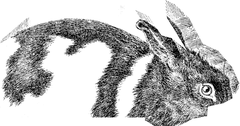
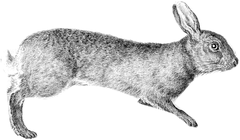
Le lapin leaps whole: his figure is cut from Buffon's wild rabbit, not the piebald one eating a cabbage
The figure came from Buffon's Lapin domestique (Histoire naturelle VI, pl. LI),
a black-and-white rabbit whose white patches are barely engraved. In an ink
mask they went transparent, and the cabbage it was eating hid its face, so
the rabbit showed with holes through it and no front. It is now cut from the
plate before it, Le Lapin sauvage (pl. L): a wild rabbit in profile mid-leap,
hatched all over like the hare, mirrored to face right and as heavily inked
as the hare is.

The scan is the same volume from the Bibliothèque interuniversitaire de santé
under the Etalab Open Licence, so only PROVENANCE.md's plate and title change,
with the figure's aspect. Le lapin still stands on a shoot of his own.

diff --git a/src/calendar/figures.ts b/src/calendar/figures.ts
@@ -58,7 +58,7 @@ export const FIGURES: Readonly<Record<string, FigureRow>> = {
   hotte: { kind: "rest", aspect: 1.9149 },
   houlette: { kind: "rest", aspect: 13.3333 },
   hoyau: { kind: "rest", aspect: 1.6484 },
-  lapin: { kind: "visitor", stance: "shoot", aspect: 1.9111 },
+  lapin: { kind: "visitor", stance: "shoot", aspect: 1.7143 },
   lievre: { kind: "visitor", stance: "shoot", aspect: 1.6 },
   loutre: { kind: "visitor", stance: "ground", aspect: 2.9917 },
   moulin: { kind: "rest", aspect: 0.69 },

diff --git a/figures/PROVENANCE.md b/figures/PROVENANCE.md
@@ -28,7 +28,7 @@ Faithful reproductions of public-domain flat artworks attract no new copyright i
 | `pelle.png` | 30 frimaire, la pelle | Diderot and d’Alembert, Recueil de planches I, 1762 | Charbon de bois III, fig. 3 | [Smithsonian / Internet Archive](https://iiif.archive.org/image/iiif/3/Recueildeplancht1Dide%2FRecueildeplancht1Dide_jp2.zip%2FRecueildeplancht1Dide_jp2%2FRecueildeplancht1Dide_0147.jp2/full/max/0/default.jpg) | Original public domain; Smithsonian scan CC0 |
 | `chien.png` | 5 nivôse, le chien | Buffon, Histoire naturelle V, 1755; engravings after Jacques de Sève | V, pl. XXVIII, Le Chien de Berger | [Internet Archive](https://iiif.archive.org/iiif/A298162$366/full/max/0/default.jpg) | Original public domain; Sevilla scan marked Public Domain Mark 1.0 |
 | `fleau.png` | 10 nivôse, le fléau | Diderot and d’Alembert, Recueil de planches I, 1762 | Batteur en grange, fig. 8 | [Smithsonian / Internet Archive](https://iiif.archive.org/image/iiif/3/Recueildeplancht1Dide%2FRecueildeplancht1Dide_jp2.zip%2FRecueildeplancht1Dide_jp2%2FRecueildeplancht1Dide_0055.jp2/full/max/0/default.jpg) | Original public domain; Smithsonian scan CC0 |
-| `lapin.png` | 15 nivôse, le lapin | Buffon, Histoire naturelle VI, 1756; engravings after Jacques de Sève | VI, pl. LI, p. 340, Le Lapin domestique | [BIU Santé / Internet Archive](https://iiif.archive.org/iiif/BIUSante_pharma_006262x06$455/full/max/0/default.jpg) | Original public domain; Bibliothèque interuniversitaire de santé, Paris scan under the Etalab Open Licence |
+| `lapin.png` | 15 nivôse, le lapin | Buffon, Histoire naturelle VI, 1756; engravings after Jacques de Sève | VI, pl. L, p. 340, Le Lapin sauvage | [BIU Santé / Internet Archive](https://iiif.archive.org/iiif/BIUSante_pharma_006262x06$453/full/max/0/default.jpg) | Original public domain; Bibliothèque interuniversitaire de santé, Paris scan under the Etalab Open Licence |
 | `van.png` | 20 nivôse, le van | Diderot and d’Alembert, Recueil de planches I, 1762 | Batteur en grange, fig. 13 | [Smithsonian / Internet Archive](https://iiif.archive.org/image/iiif/3/Recueildeplancht1Dide%2FRecueildeplancht1Dide_jp2.zip%2FRecueildeplancht1Dide_jp2%2FRecueildeplancht1Dide_0055.jp2/full/max/0/default.jpg) | Original public domain; Smithsonian scan CC0 |
 | `chat.png` | 25 nivôse, le chat | Buffon, Histoire naturelle VI, 1756; engravings after Jacques de Sève | VI, pl. II, p. 48 | [BIU Santé / Internet Archive](https://iiif.archive.org/iiif/BIUSante_pharma_006262x06$65/full/max/0/default.jpg) | Original public domain; Bibliothèque interuniversitaire de santé, Paris scan under the Etalab Open Licence |
 | `crible.png` | 30 nivôse, le crible | Diderot and d’Alembert, Recueil de planches I, 1762 | Batteur en grange, fig. 15 | [Smithsonian / Internet Archive](https://iiif.archive.org/image/iiif/3/Recueildeplancht1Dide%2FRecueildeplancht1Dide_jp2.zip%2FRecueildeplancht1Dide_jp2%2FRecueildeplancht1Dide_0055.jp2/full/max/0/default.jpg) | Original public domain; Smithsonian scan CC0 |
